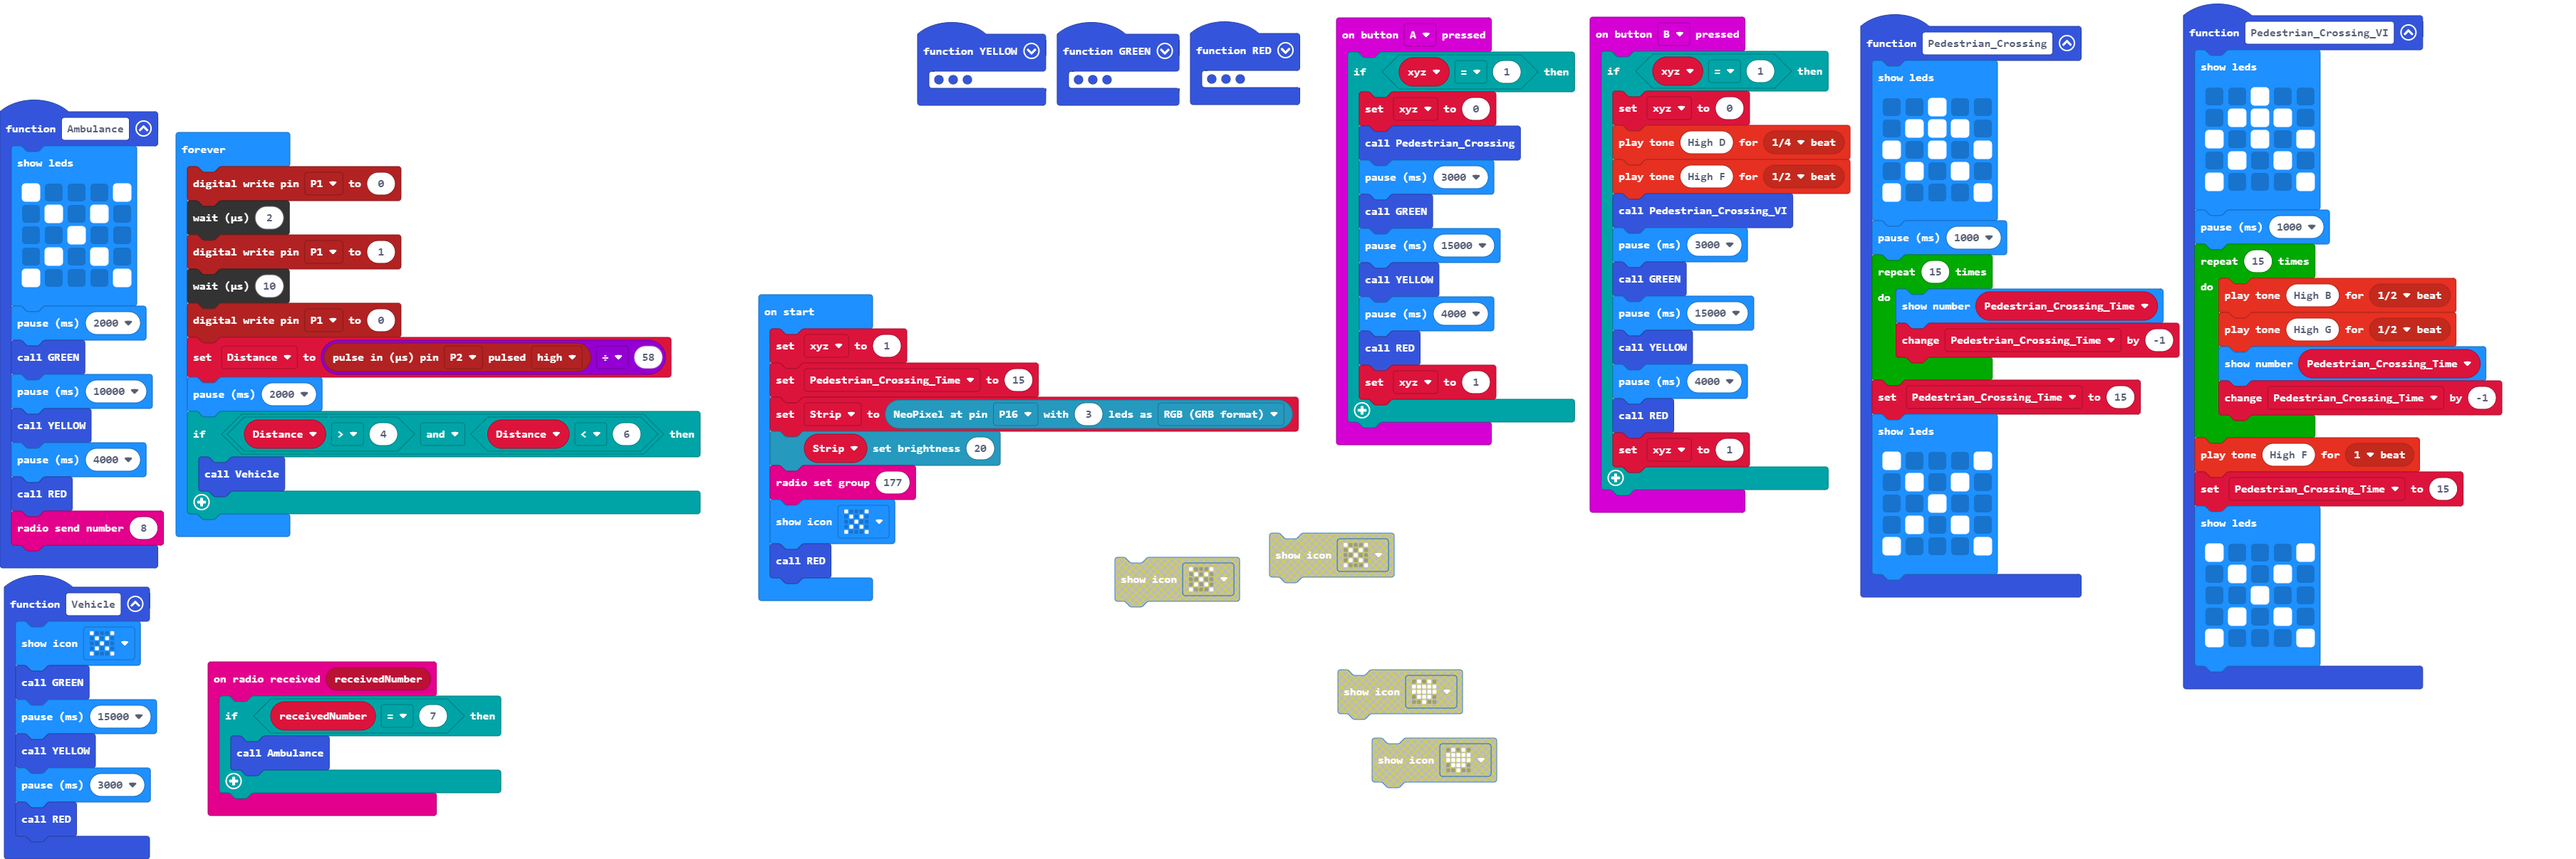
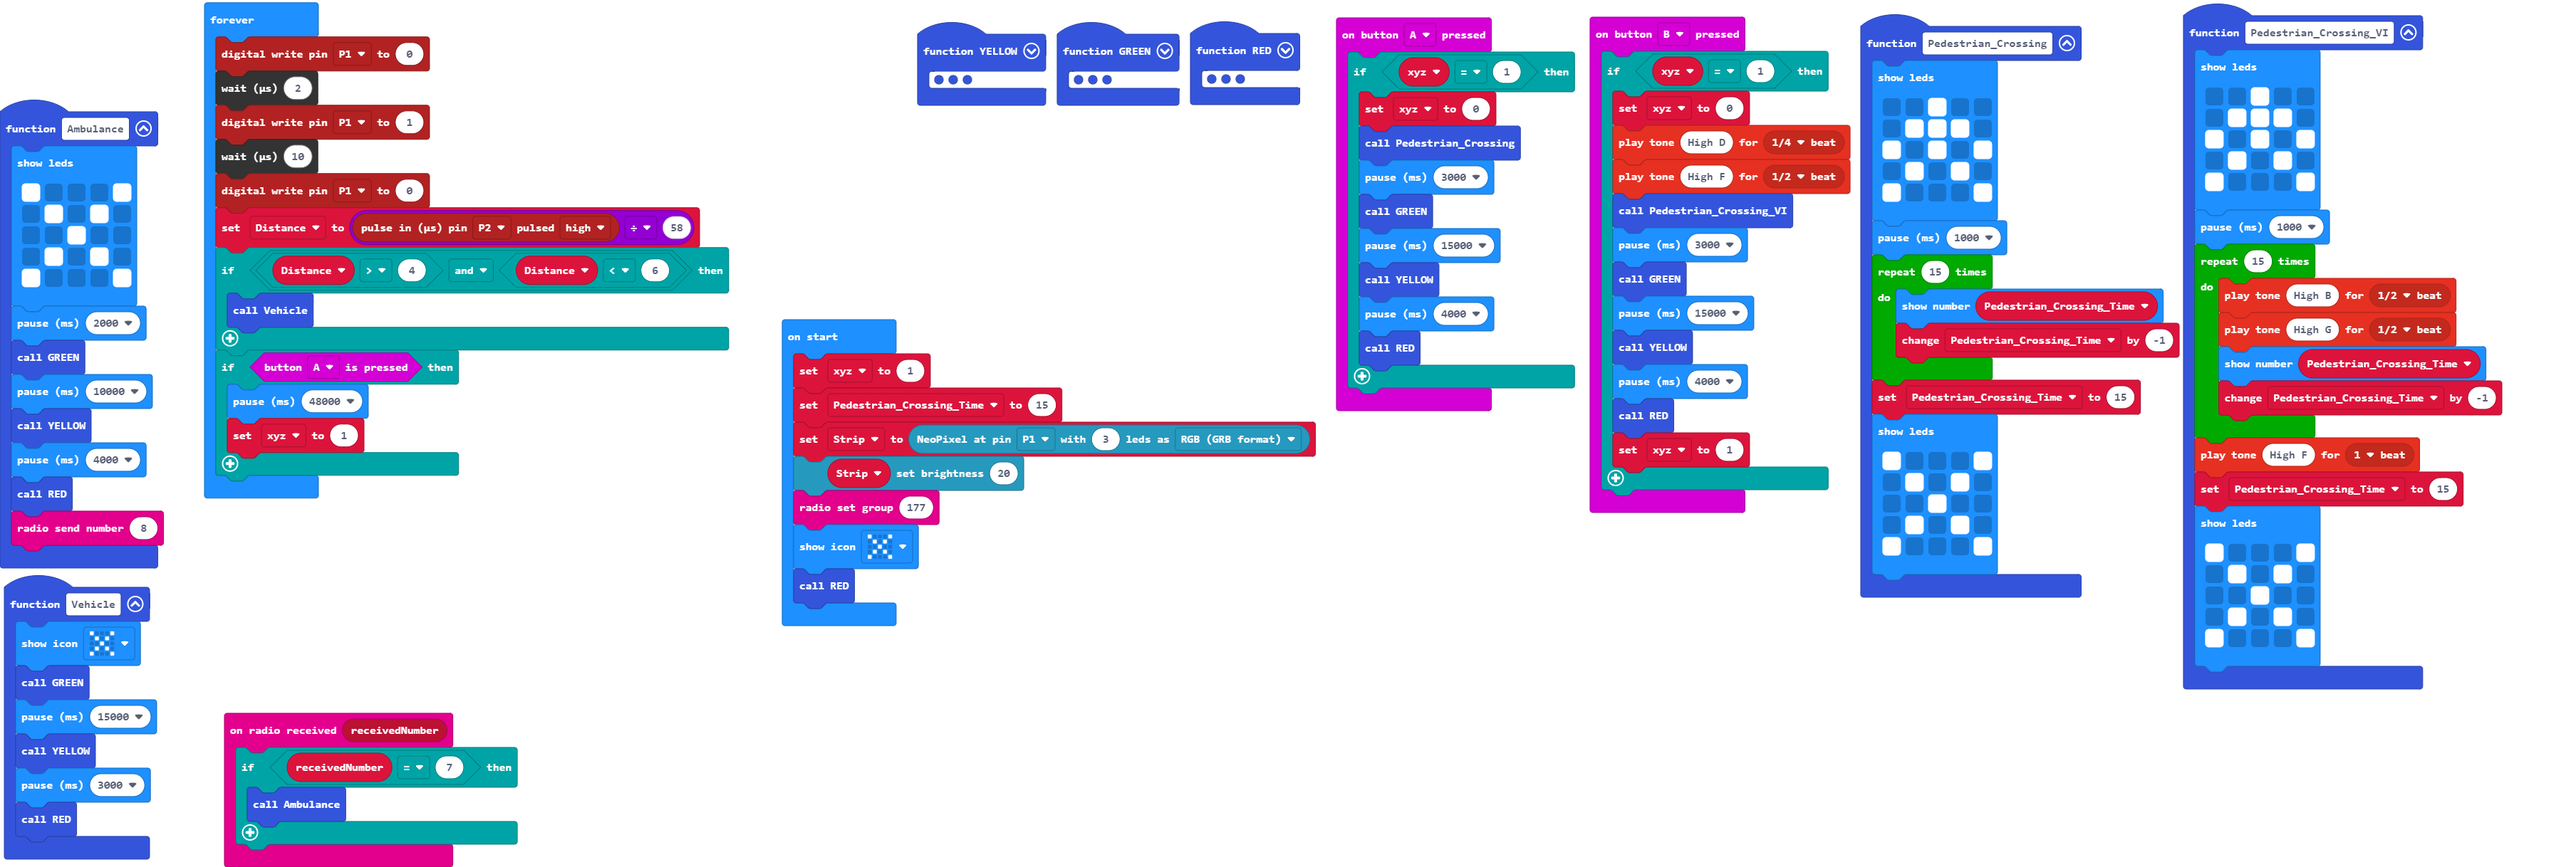
Update main.blocks, main.ts

diff --git a/main.ts b/main.ts
@@ -35,7 +35,6 @@ input.onButtonPressed(Button.A, function () {
         YELLOW()
         basic.pause(4000)
         RED()
-        xyz = 1
     }
 })
 function RED () {
@@ -133,7 +132,7 @@ let Pedestrian_Crossing_Time = 0
 let xyz = 0
 xyz = 1
 Pedestrian_Crossing_Time = 15
-Strip = neopixel.create(DigitalPin.P16, 3, NeoPixelMode.RGB)
+Strip = neopixel.create(DigitalPin.P1, 3, NeoPixelMode.RGB)
 Strip.setBrightness(20)
 radio.setGroup(177)
 basic.showIcon(IconNames.No)
@@ -145,8 +144,11 @@ basic.forever(function () {
     control.waitMicros(10)
     pins.digitalWritePin(DigitalPin.P1, 0)
     Distance = pins.pulseIn(DigitalPin.P2, PulseValue.High) / 58
-    basic.pause(2000)
     if (Distance > 4 && Distance < 6) {
         Vehicle()
+    }
+    if (input.buttonIsPressed(Button.A)) {
+        basic.pause(48000)
+        xyz = 1
     }
 })
